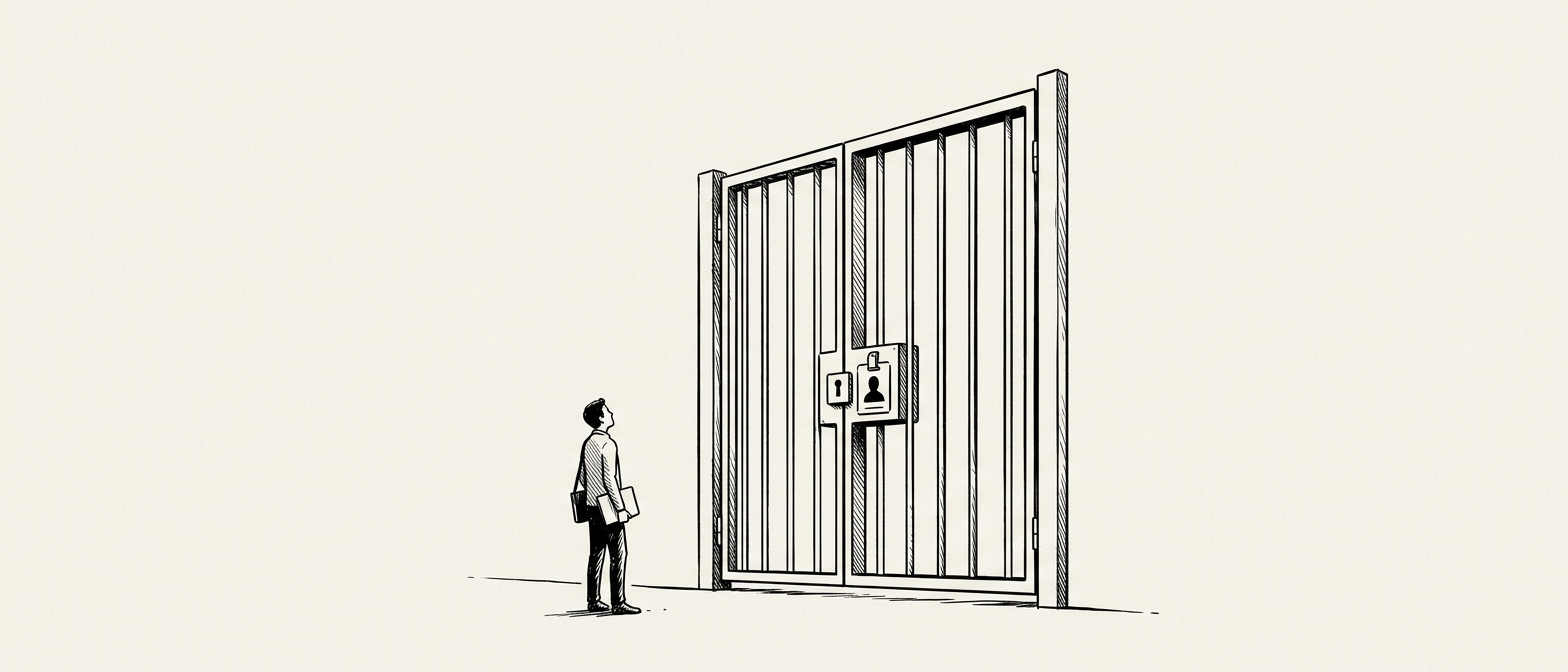
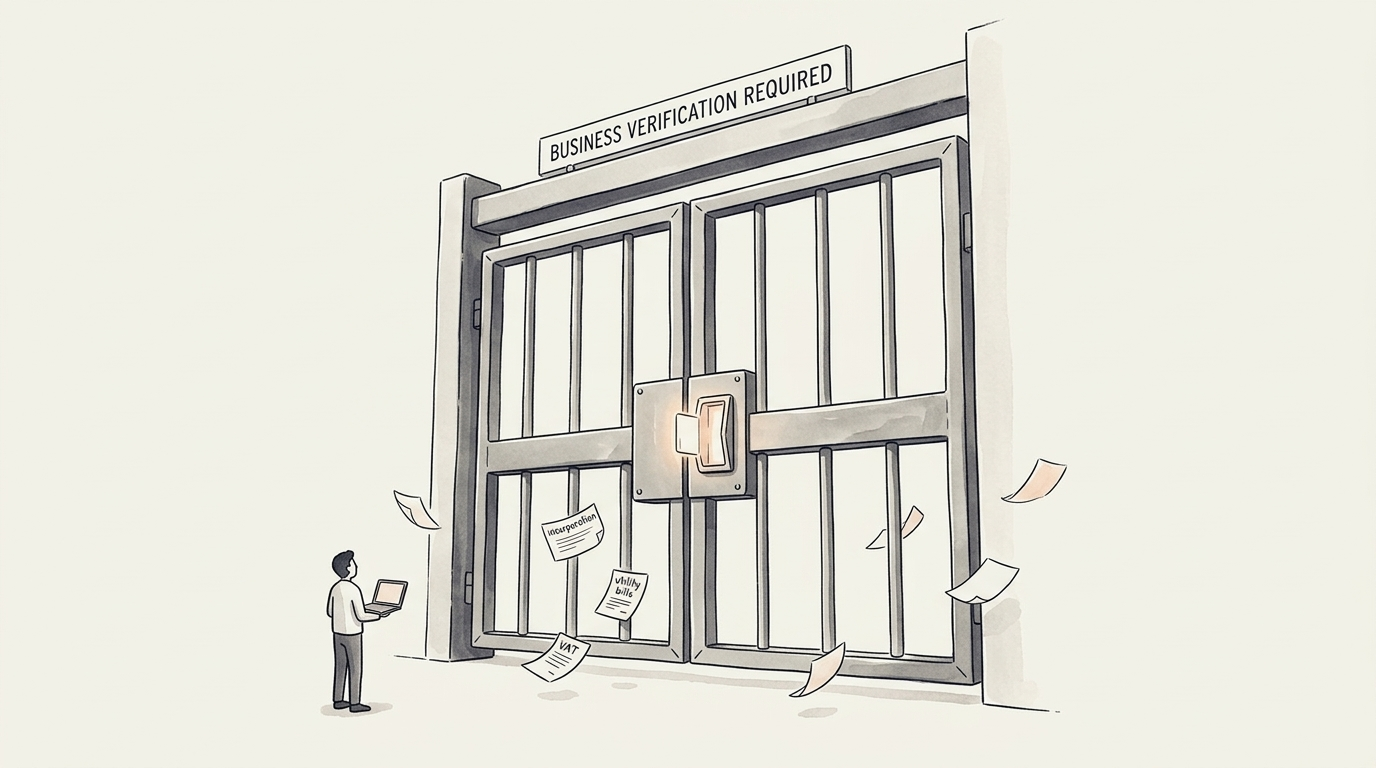
feat(blog): three editorial illustrations for "No company, no API"
Adds a reusable <Figure> MDX component (next/image + hairline border +
caption) and uses it to drop two inline illustrations into the post —
the paperwork stack after the Business Verification requirements list,
and the graveyard-fork at the pivot into the "Should you ship this way?"
section. Replaces the hero with the gate-with-banner variant and widens
its alt text to match.

Changed region(s): [[0.2188, 0.0625, 0.7812, 0.9375]]

diff --git a/components/mdx/BlogComponents.tsx b/components/mdx/BlogComponents.tsx
@@ -1,6 +1,41 @@
+import Image from "next/image";
 import type { ReactNode } from "react";
 import type { ArtifactType } from "@/content/blog";
 import { PhoneRow } from "./CaseStudySchemas";
+
+export function Figure({
+  src,
+  alt,
+  caption,
+  width,
+  height,
+}: {
+  src: string;
+  alt: string;
+  caption?: string;
+  width: number;
+  height: number;
+}) {
+  return (
+    <figure className="not-prose my-10">
+      <div className="overflow-hidden rounded-[var(--radius-tile)] border border-[color:var(--hairline)] bg-[color:var(--bg-elevated)]">
+        <Image
+          src={src}
+          alt={alt}
+          width={width}
+          height={height}
+          sizes="(min-width: 768px) 70ch, 92vw"
+          className="block h-auto w-full"
+        />
+      </div>
+      {caption && (
+        <figcaption className="mt-4 text-center font-sans text-xs leading-relaxed text-[color:var(--ink-muted)]">
+          {caption}
+        </figcaption>
+      )}
+    </figure>
+  );
+}
 
 const artifactIcon: Record<ArtifactType, string> = {
   commit: "⌥",
@@ -272,4 +307,5 @@ export const blogComponents = {
   After,
   TechnicalDetail,
   PhoneRow,
+  Figure,
 };
